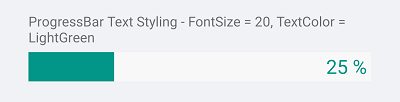
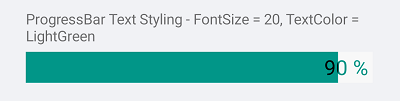
address comments

Changed region(s): [[0.06, 0.505, 0.93, 0.8317], [0.06, 0.1188, 0.9, 0.4455]]

diff --git a/controls/progressbar/events.md b/controls/progressbar/events.md
@@ -10,13 +10,11 @@ slug: progressbar-events
 
 The ProgressBar for Xamarin exposes the following events:
 
-* `ProgressChanged` event is raised when progress is changed. The `ProgressChanged` event handler receives two paraeters:
+* `ProgressChanged` event is raised when progress is changed. The `ProgressChanged` event handler receives two parameters:
 
-	* `sender` of type Telerik.XaarinForms.Primitives.LinearProgressView.
-	* A `ProgressChangedEventArgs` which has a reference to the `Progress`(`double`) property.
+	* A `ProgressChangedEventArgs` which has a `Progress`(`double`) property. Using this property you can get the current progress of the ProgressBar control.
 
 * `ProgressCompleted` event is raised when the Value of the ProgressBar reaches the `Maximum` value.
-
 
 
 **Example with ProgressChanged and ProgressCompleted events**
@@ -38,8 +36,6 @@ In addition to this, you need to add the following namespace:
 <snippet id='progressbar-progresscompleted-event'/>
 
 The final result when using the `ProgressChanged` and `ProgressCompleted` events:
-
-![ProgressBar Events](images/progressbar-events.gif)
 
 >important A sample Events example can be found in the ProgressBar/Events folder of the [SDK Samples Browser application]({%slug developer-focused-examples%}).
 

diff --git a/controls/progressbar/styling.md b/controls/progressbar/styling.md
@@ -33,7 +33,7 @@ The control supports the following styling properties:
 The following Style properties are related to the text displayed in the ProgressBar:
 
 * `TextColor`(`Color`): Defines the color of the Text which displays the progress value.
-* `AlternateTextColor`(`Color`)
+* `AlternateTextColor`(`Color`): Defines the text color when the progress indicator overlaps the label which displays the current progress.
 * `FontSize`(`double`): Defines the font size of the Text which displays the progress value
 
 <snippet id='progressbar-styling-text'/>
